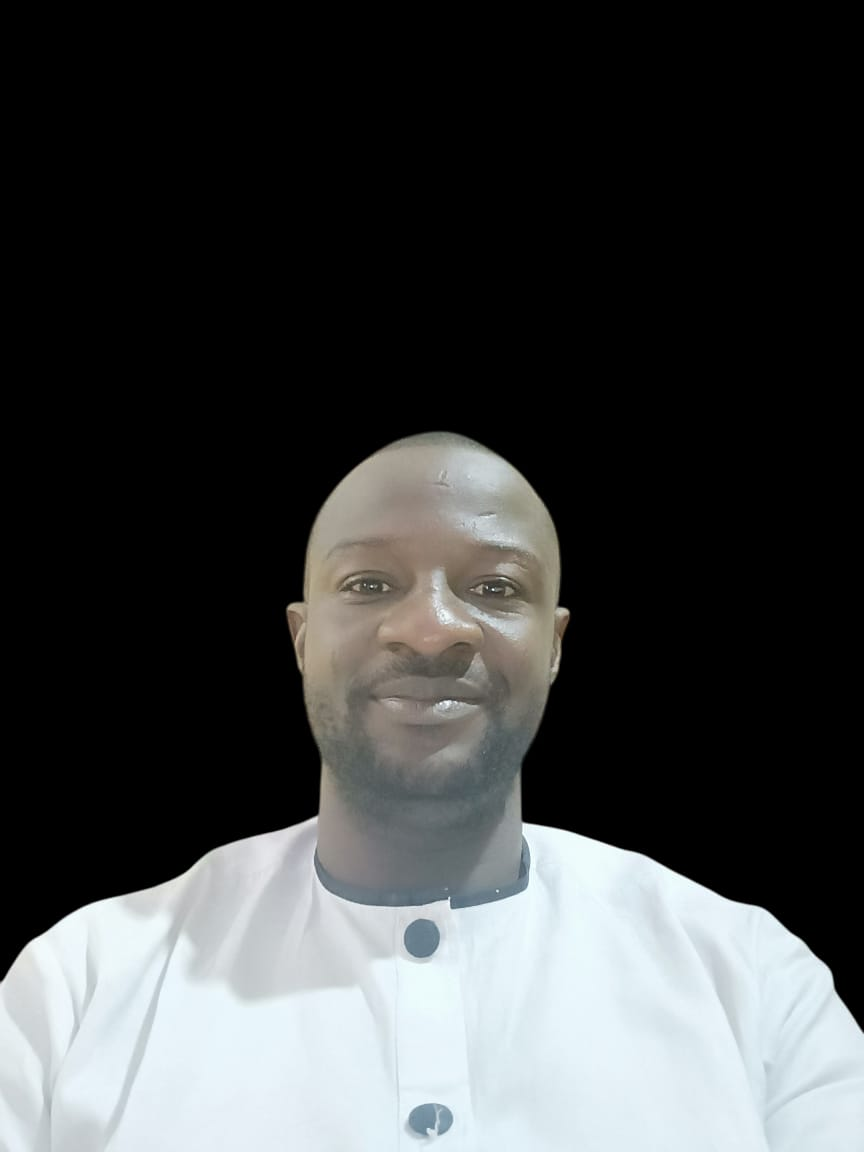
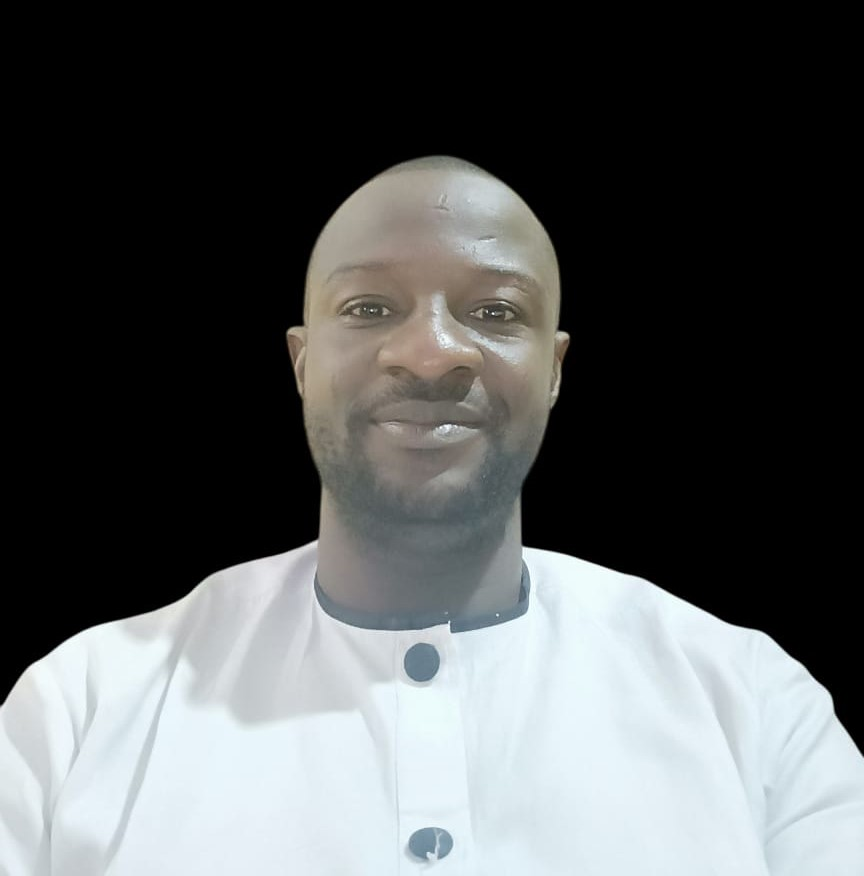
updated leadership page with new images and titles

diff --git a/leaders.html b/leaders.html
@@ -140,7 +140,7 @@
         <!-- <p class="text-xs text-gray-500 text-center">Dedicated to fostering alumni connections and driving impactful initiatives for our community.</p> -->
       </div>
       <div class="bg-white rounded-2xl shadow p-6 flex flex-col items-center">
-        <img src="images/Ms Patience Okogba .jpg" alt="Leader" class="w-40 h-40 rounded-full object-cover mb-4 border-4 border-alum">
+        <img src="images/Ms Patience Okogba.jpg" alt="Leader" class="w-40 h-40 rounded-full object-cover mb-4 border-4 border-alum">
         <h2 class="font-semibold text-lg">Ms Patience Okogba </h2>
         <p class="text-sm text-gray-600 mb-2">Welfare Coordinator & Event Manager</p>
         <!-- <p class="text-xs text-gray-500 text-center">Dedicated to fostering alumni connections and driving impactful initiatives for our community.</p> -->
@@ -158,22 +158,30 @@
         <!-- <p class="text-xs text-gray-500 text-center">Dedicated to fostering alumni connections and driving impactful initiatives for our community.</p> -->
       </div>
       <div class="bg-white rounded-2xl shadow p-6 flex flex-col items-center">
-        <img src="images/BOT Chairman.jpg" alt="Leader" class="w-40 h-40 rounded-full object-cover mb-4 border-4 border-alum">
-        <h2 class="font-semibold text-lg">BOT Chairman</h2>
-        <p class="text-sm text-gray-600 mb-2">BOT Chairman</p>
-        <!-- <p class="text-xs text-gray-500 text-center">Dedicated to fostering alumni connections and driving impactful initiatives for our community.</p> -->
-      </div>
-      <div class="bg-white rounded-2xl shadow p-6 flex flex-col items-center">
         <img src="images/Loveth Avwunuvwia .jpg" alt="Leader" class="w-40 h-40 rounded-full object-cover mb-4 border-4 border-alum">
         <h2 class="font-semibold text-lg">Loveth Avwunuvwia </h2>
         <p class="text-sm text-gray-600 mb-2">Assistant PRO</p>
         <!-- <p class="text-xs text-gray-500 text-center">Dedicated to fostering alumni connections and driving impactful initiatives for our community.</p> -->
       </div>
       <div class="bg-white rounded-2xl shadow p-6 flex flex-col items-center">
-        <img src="images/grad.jpg" alt="Leader" class="w-40 h-40 rounded-full object-cover mb-4 border-4 border-alum">
-        <h2 class="font-semibold text-lg">Dr. Samuel Attoh</h2>
-        <p class="text-sm text-gray-600 mb-2">President</p>
-        <p class="text-xs text-gray-500 text-center">Dedicated to fostering alumni connections and driving impactful initiatives for our community.</p>
+        <img src="images/Ramat Jaja .jpg" alt="Leader" class="w-40 h-40 rounded-full object-cover mb-4 border-4 border-alum">
+        <h2 class="font-semibold text-lg">Ramat Jaja </h2>
+        <p class="text-sm text-gray-600 mb-2">BOT Member</p>
+      </div>
+      <div class="bg-white rounded-2xl shadow p-6 flex flex-col items-center">
+        <img src="images/Udewoke Ikenna Charles.jpg" alt="Leader" class="w-40 h-40 rounded-full object-cover mb-4 border-4 border-alum">
+        <h2 class="font-semibold text-lg">Udewoke Ikenna Charles</h2>
+        <p class="text-sm text-gray-600 mb-2">BOT Member</p>
+      </div>
+      <div class="bg-white rounded-2xl shadow p-6 flex flex-col items-center">
+        <img src="images/Enifome Egbi Solomon.jpg" alt="Leader" class="w-40 h-40 rounded-full object-cover mb-4 border-4 border-alum">
+        <h2 class="font-semibold text-lg">Enifome Egbi Solomon</h2>
+        <p class="text-sm text-gray-600 mb-2">BOT Member</p>
+      </div>
+      <div class="bg-white rounded-2xl shadow p-6 flex flex-col items-center">
+        <img src="images/Charles Emiantor Ikhide.jpg" alt="Leader" class="w-40 h-40 rounded-full object-cover mb-4 border-4 border-alum">
+        <h2 class="font-semibold text-lg">Charles Emiantor Ikhide</h2>
+        <p class="text-sm text-gray-600 mb-2">BOT Member</p>
       </div>
       <!-- Add more leader cards as needed -->
     </div>
